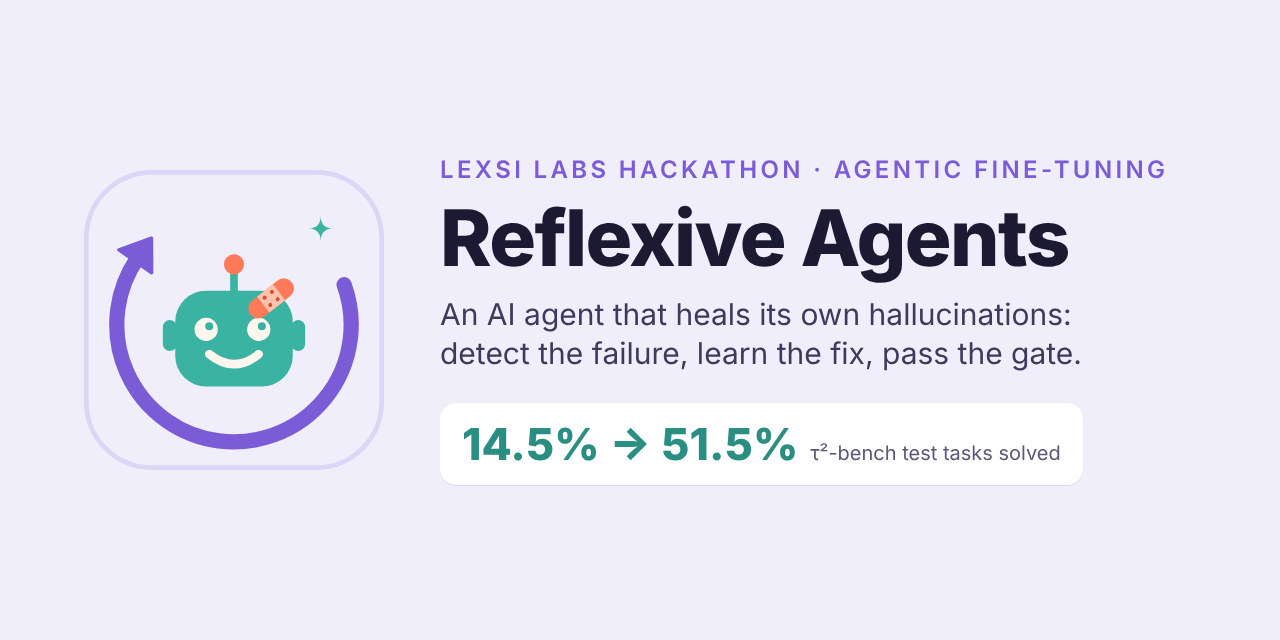
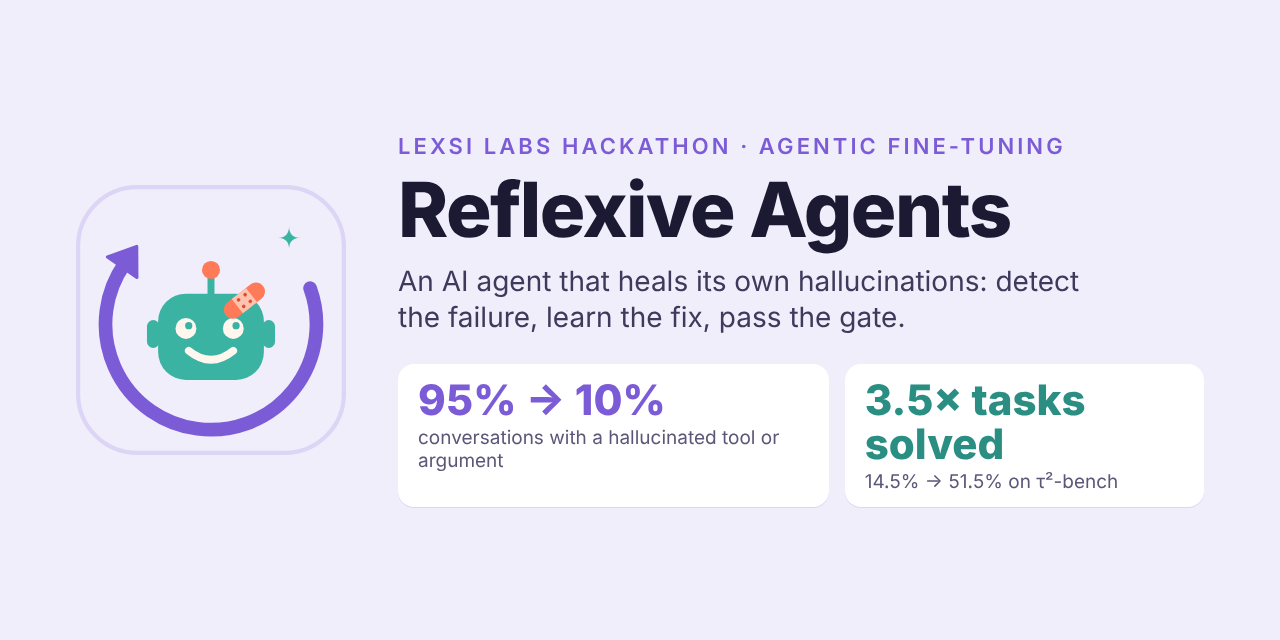
Lead with hallucinations: 95% -> 10% in the README callout and social preview
Claude-Session: https://claude.ai/code/session_01WKFPD2vqX4kykPcp7MEfDM

Changed region(s): [[0.0625, 0.2188, 0.9062, 0.7812], [0.0625, 0.25, 0.2812, 0.3125], [0.2188, 0.3125, 0.2812, 0.375]]

diff --git a/README.md b/README.md
@@ -29,9 +29,9 @@ closed loop that turns those failures into training data, built for the Lexsi La
 Alignment Hackathon (Track 3: Agentic Fine-tuning) on the Lexsi Labs stack.
 
 > [!IMPORTANT]
-> **The healed agent solves 51.5% of τ²-bench's test tasks, against 14.5% before healing**, and
-> conversations with a hallucinated tool or argument fall from **95% to 10%**. A "be careful"
-> prompt changed nothing (13.0%).
+> **Hallucinations fall from 95% to 10% of conversations, and the agent solves 3.5× as many tasks**
+> (14.5% → 51.5% of τ²-bench's test split, a hard public benchmark). A "be careful not to
+> hallucinate" prompt changed nothing (13.0%).
 
 ## Overview
 
